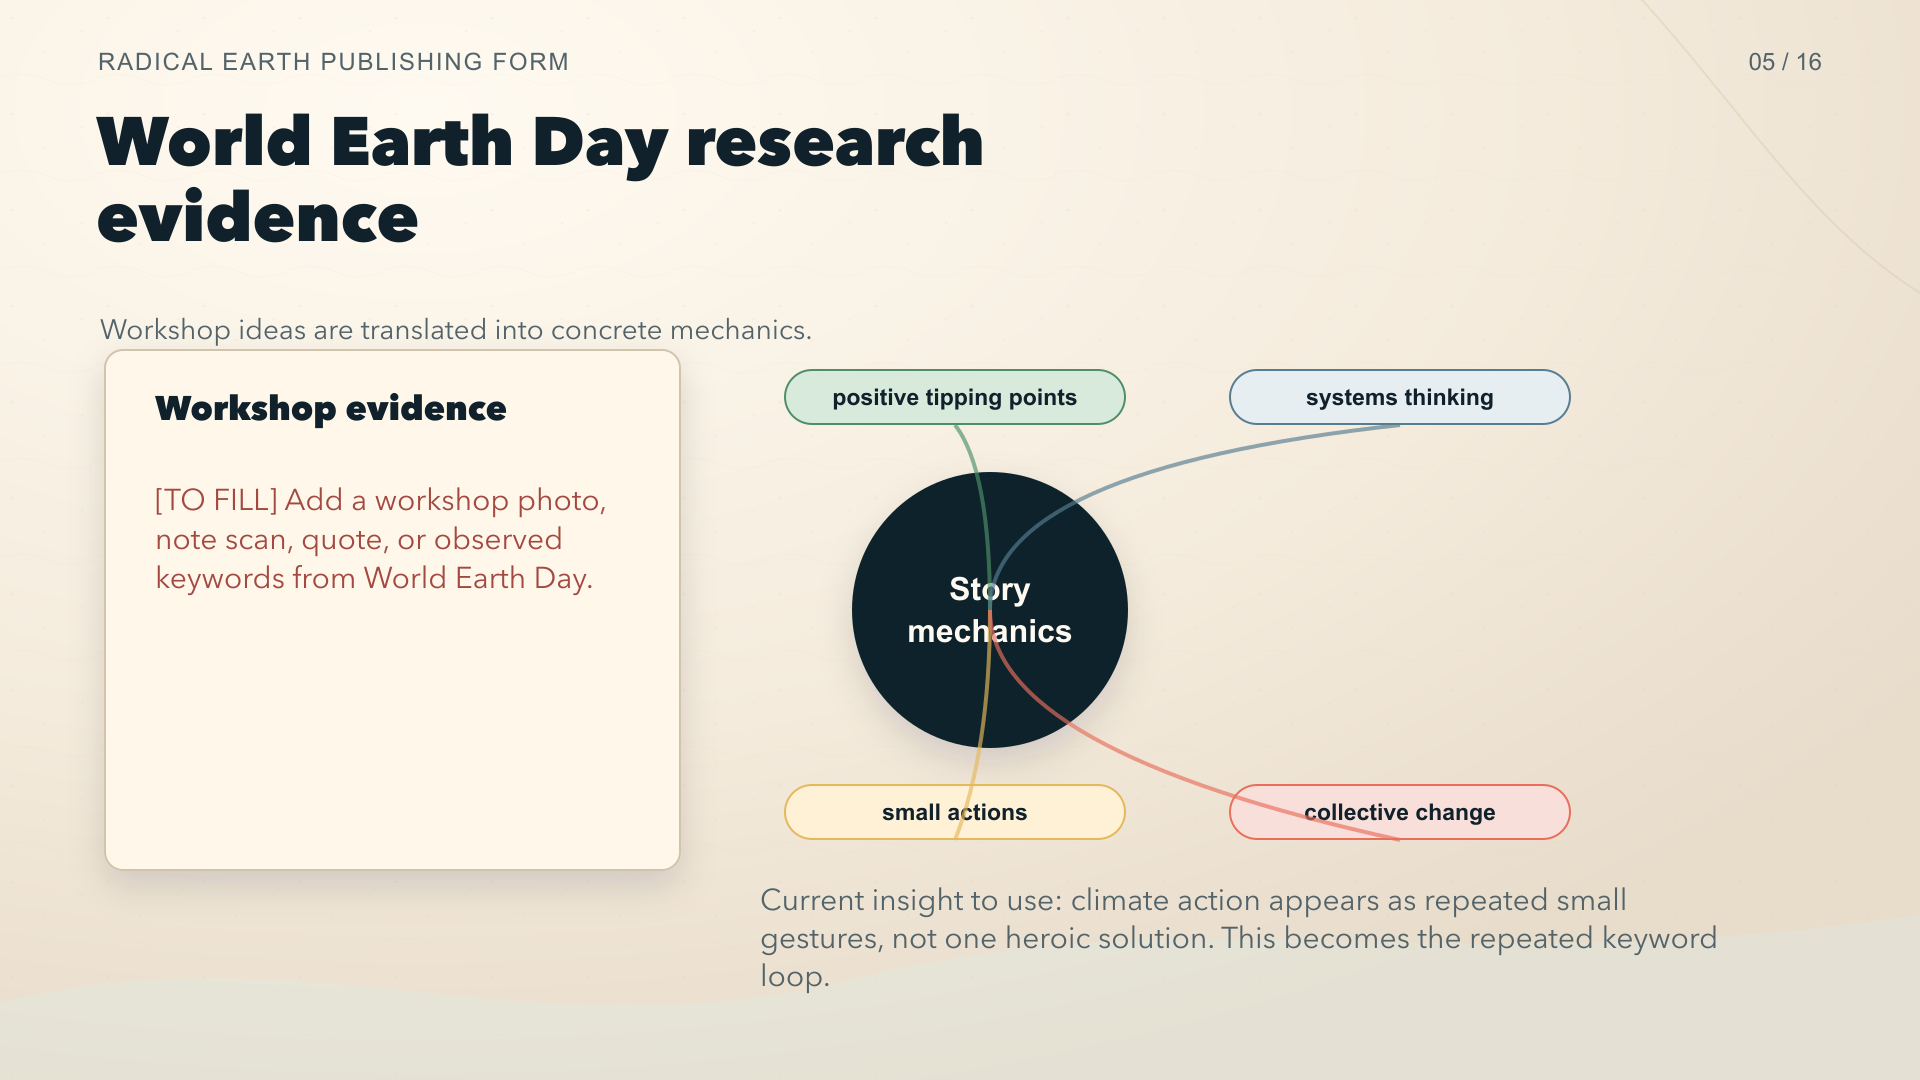
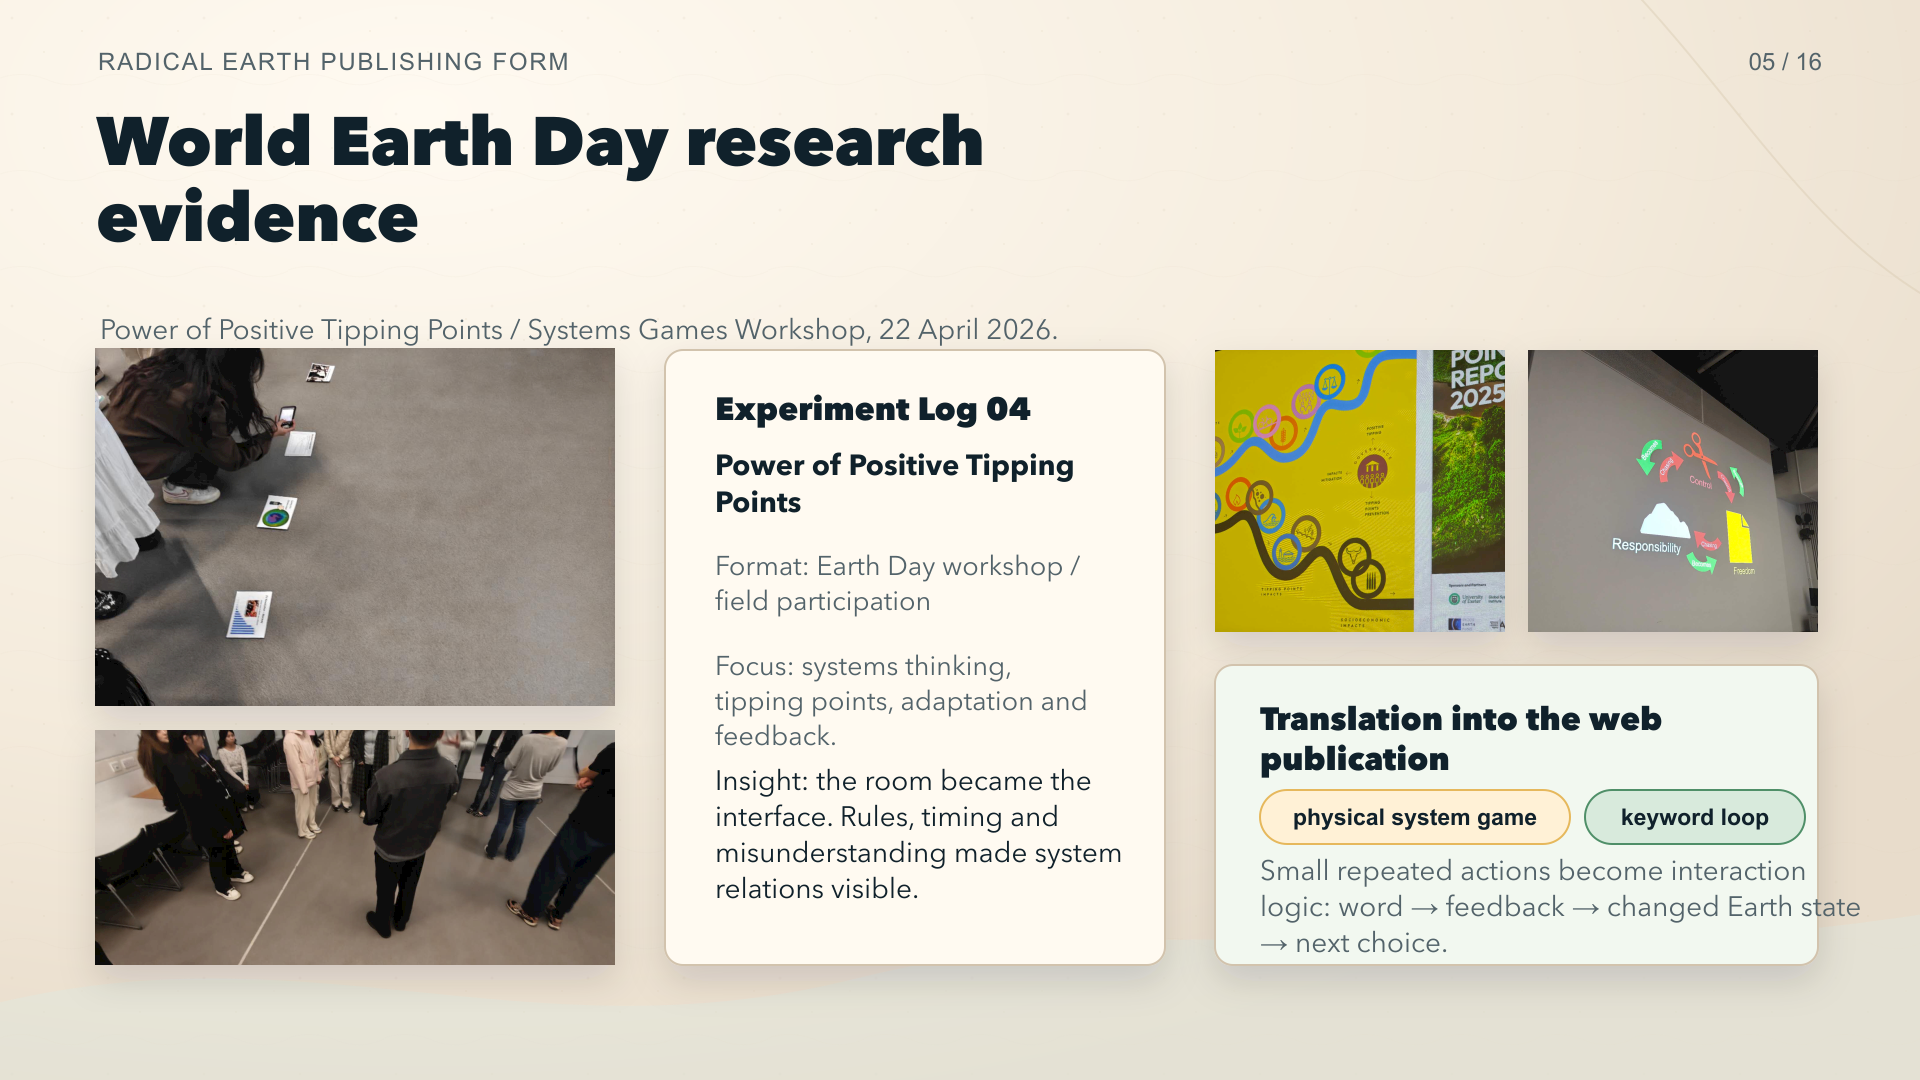
Connect workshop evidence to deck

diff --git a/ppt/missing-materials-to-fill.md b/ppt/missing-materials-to-fill.md
@@ -1,4 +1,9 @@
-# Missing Material To Fill
+# Updated Missing Material To Fill
+
+Already added:
+- Earth Day Experiment Log 04: Power of Positive Tipping Points / Systems Games Workshop.
+- Workshop date/place/focus: 22 April 2026, West Side Lecture Theatre, systems thinking, tipping points, adaptation, feedback.
+- Workshop process photos showing floor-card participation, group activity, positive tipping points, feedback loops and complex-system slides.
 
 1. Original given content
    - Title / author / source of the assigned text.
@@ -6,12 +11,12 @@
    - Tone of voice, key phrases, recurring motifs, narrative rhythm.
    - Confirmation: full text, selected fragments, rewritten chapters, or intentional edited version.
 
-2. World Earth Day evidence
-   - Workshop photos, note scans, sketchbook pages, participant quotes, or recorded keywords.
-   - One concrete insight linking workshop activity to the website mechanics.
+2. Source-to-story mapping
+   - Which exact lines or ideas from the original text become keywords, chapters, Earth states and endings.
+   - A short paragraph explaining why the text is edited into an interactive story rather than reproduced in full.
 
 3. Process and iteration evidence
-   - Early sketches, failed UI versions, system diagrams, paper prototypes.
+   - Early sketches, failed UI versions, system diagrams, paper prototypes beyond the Earth Day workshop evidence.
    - User testing notes or peer feedback.
    - Before/after screenshots showing what changed.
 
@@ -21,6 +26,7 @@
    - Optional exhibition mock installation view.
    - Printed/digital ending-card mockups.
 
-5. Submission reflection details
+5. Optional strengthening
+   - Direct participant quotes or recorded workshop keywords, if available.
    - Your own wording for audience, context, format, and Radical Earth response.
    - Any citations or references from the source text / workshop.
